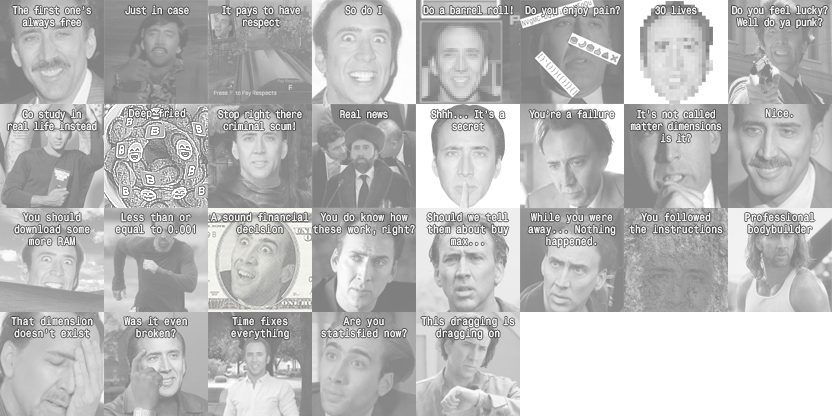
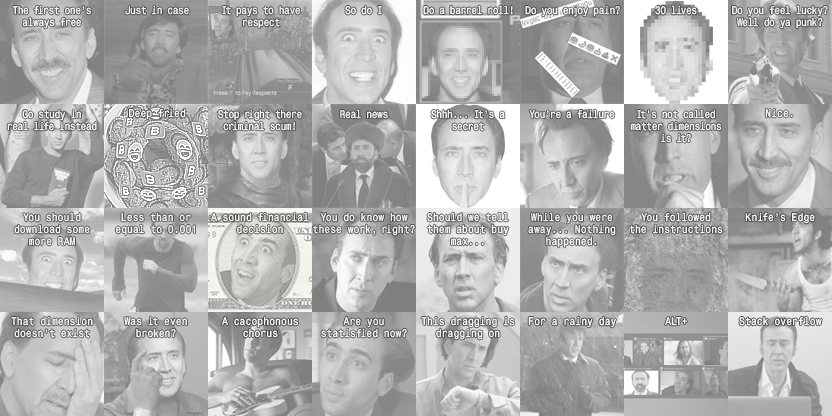
final secret ach images, minor changes to names/wording

Changed region(s): [[0.625, 0.5, 1.0, 1.0], [0.25, 0.75, 0.375, 1.0]]

diff --git a/javascripts/core/secret-formula/achievements/secret-achievements.js b/javascripts/core/secret-formula/achievements/secret-achievements.js
@@ -147,7 +147,7 @@ GameDatabase.achievements.secret = [
   {
     id: 38,
     name: "Knife's edge",
-    description: "Be about to do a Hard Reset, but cancel out."
+    description: "Close the Hard Reset modal after typing in the confirmation."
   },
   {
     id: 41,
@@ -186,12 +186,12 @@ GameDatabase.achievements.secret = [
   },
   {
     id: 47,
-    name: "Clean Slate",
+    name: "ALT+",
     description: "Hide every possible tab."
   },
   {
     id: 48,
-    name: "Average programmer experience.jpg",
+    name: "Stack overflow",
     description: "Have more Automator errors than lines."
   },
 ];
